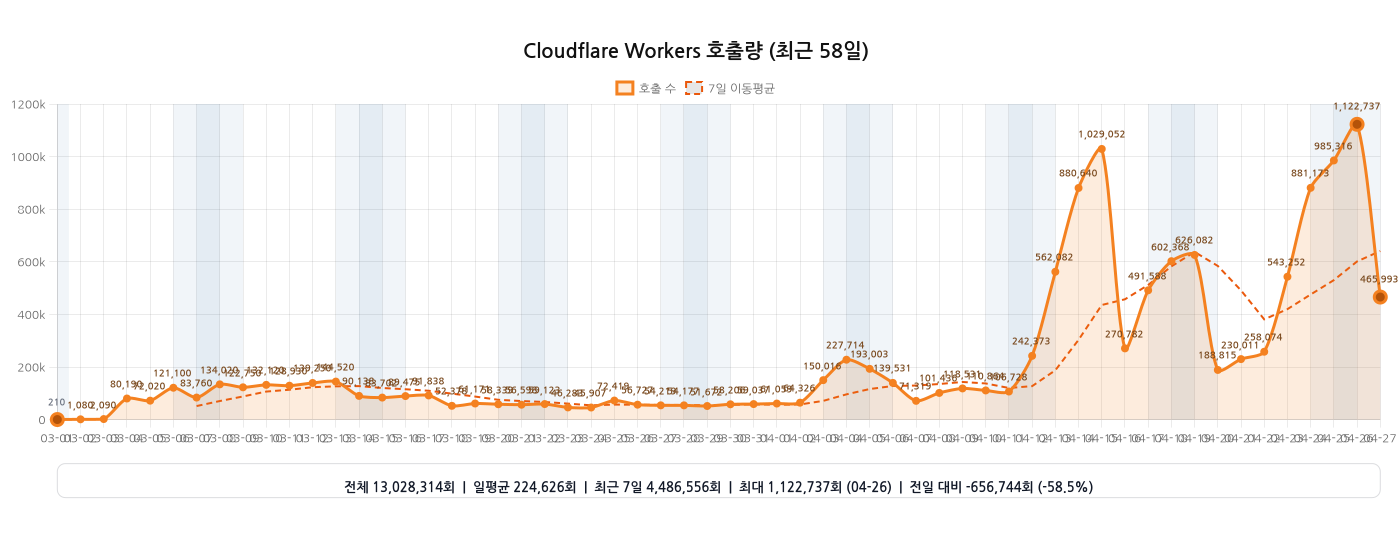
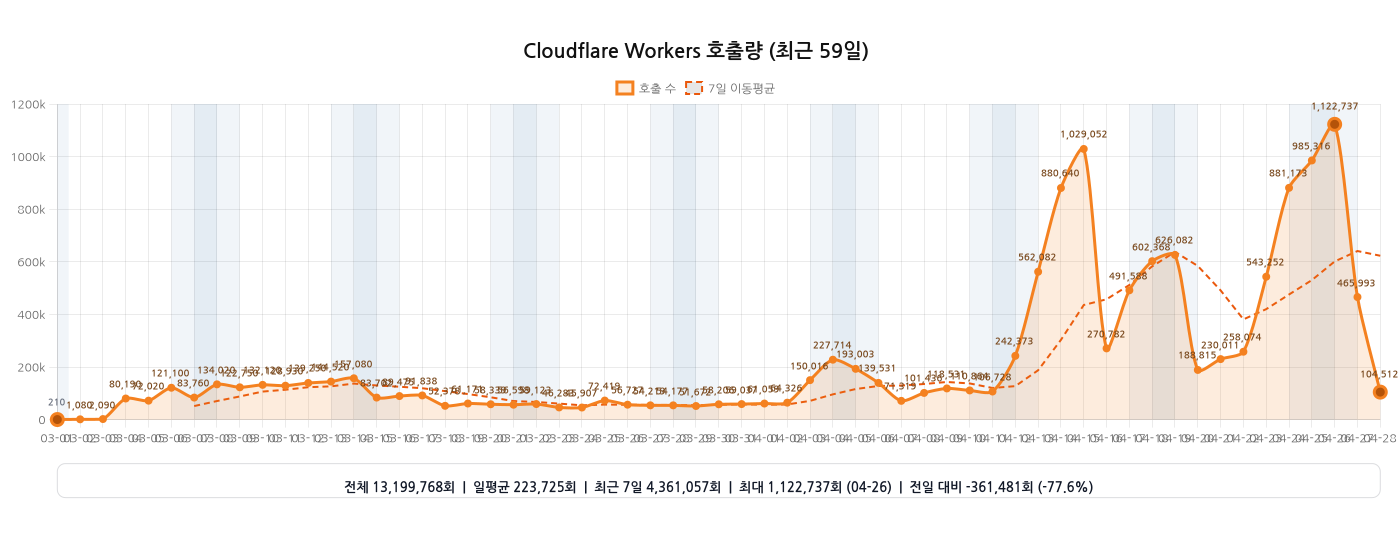
chore: 워커 호출량 그래프 자동 갱신

diff --git a/README.md b/README.md
@@ -18,11 +18,11 @@
 [![Coverage](https://github.com/hmmhmmhm/daiso-mcp/actions/workflows/coverage.yml/badge.svg?branch=main)](https://github.com/hmmhmmhm/daiso-mcp/actions/workflows/coverage.yml)
 
 <!-- WORKERS_INVOCATIONS_CHART:START -->
-<h3>Cloudflare Workers 호출량 (2026-03-01 ~ 2026-04-27, 58일)</h3>
+<h3>Cloudflare Workers 호출량 (2026-03-01 ~ 2026-04-28, 59일)</h3>
 
-<img src="./assets/analytics/workers-invocations.png?v=2026-04-27T16:00:02.960Z" alt="Cloudflare Workers 호출량 그래프 (2026-03-01 ~ 2026-04-27)" width="100%">
+<img src="./assets/analytics/workers-invocations.png?v=2026-04-28T16:05:53.124Z" alt="Cloudflare Workers 호출량 그래프 (2026-03-01 ~ 2026-04-28)" width="100%">
 
-<sub>기준 워커: <code>daiso-mcp</code> · 마지막 갱신: 2026-04-28 01:00 KST</sub>
+<sub>기준 워커: <code>daiso-mcp</code> · 마지막 갱신: 2026-04-29 01:05 KST</sub>
 
 <!-- WORKERS_INVOCATIONS_CHART:END -->
 
